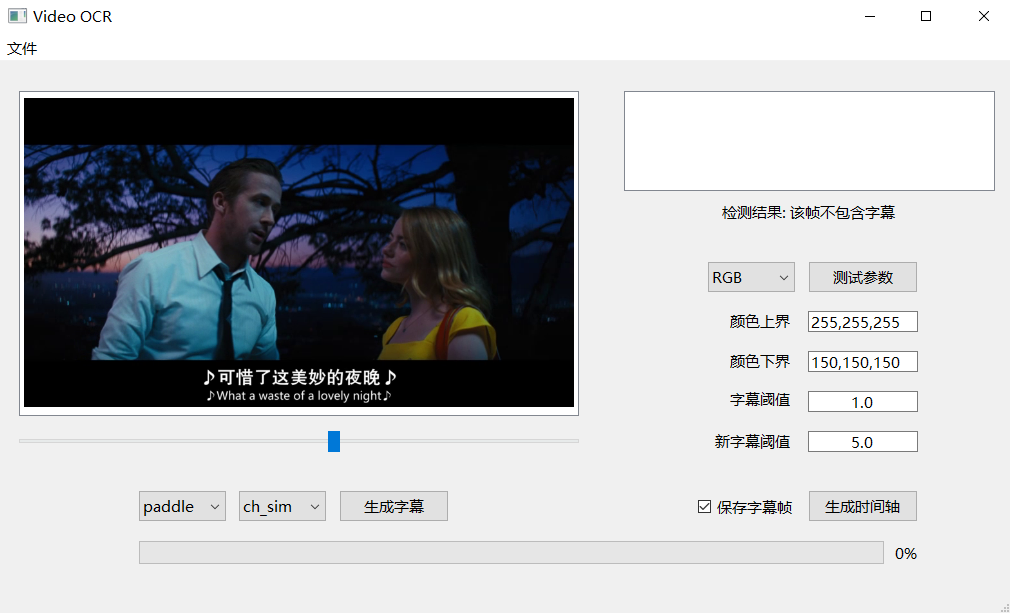
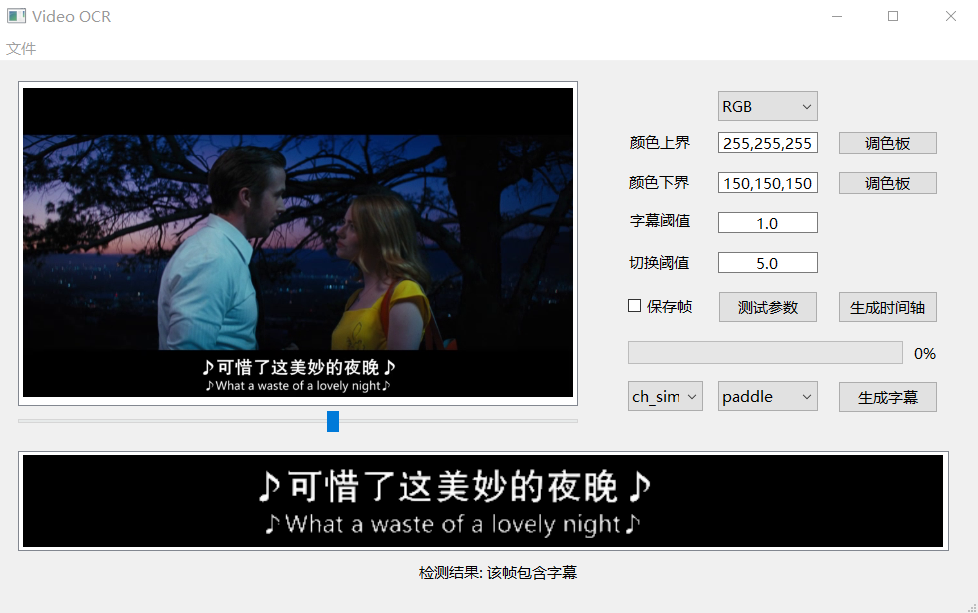
[v2.0]update README.md

diff --git a/README.md b/README.md
@@ -36,7 +36,9 @@
   - [x] ~~进度条与完成提示~~
   - [x] ~~非法动作的识别与处理~~
   - [x] ~~耗时算法的线程化~~
-  - [ ] 字幕颜色取色器
+  - [x] 字幕颜色取色器
+    - [ ] ~~基本取色器~~
+    - [ ] 取色器放大镜
   - [ ] 字幕裁剪框的交互
 - [ ] 其他计划
   - [ ] QSS 美化
